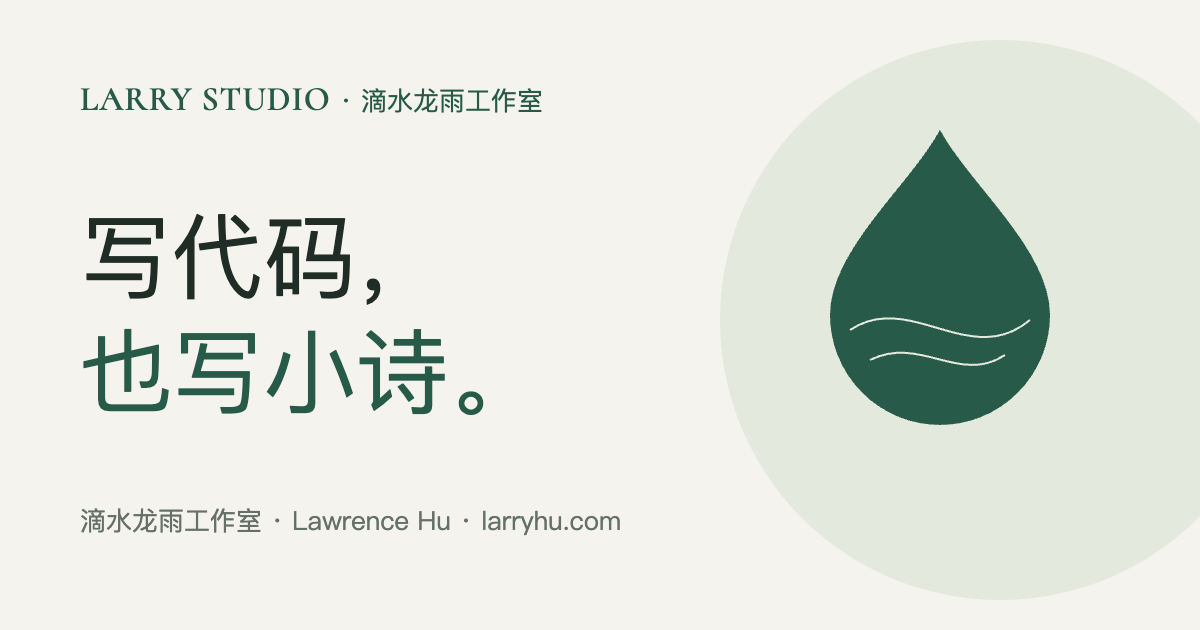
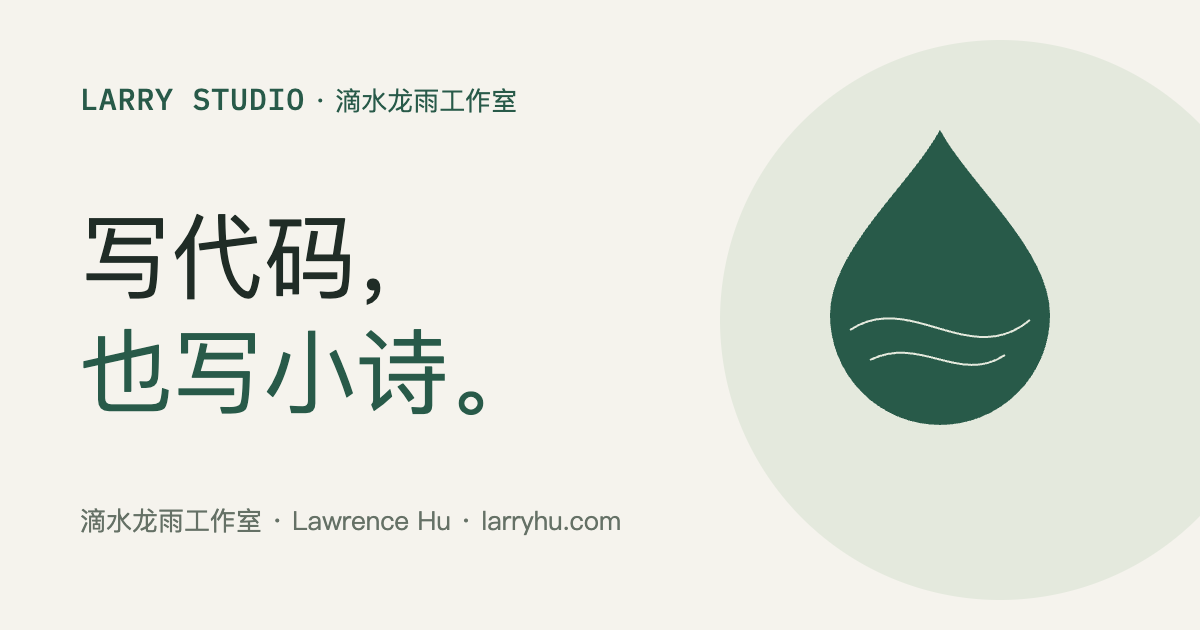
style: use IBM Plex Mono for the studio wordmark

Changed region(s): [[0.0617, 0.1206, 0.4625, 0.181]]

diff --git a/app/globals.css b/app/globals.css
@@ -2,7 +2,7 @@
 
 @font-face { font-family: "Studio Sans"; src: url('/fonts/dm-sans.woff2') format('woff2'); font-weight: 400 700; font-style: normal; font-display: swap; }
 @font-face { font-family: "Studio Serif"; src: url('/fonts/noto-serif-sc.woff2') format('woff2'); font-weight: 400 700; font-style: normal; font-display: swap; }
-@font-face { font-family: "Studio Wordmark"; src: url('/fonts/cormorant-sc-600.woff2') format('woff2'); font-weight: 600; font-style: normal; font-display: swap; }
+@font-face { font-family: "Studio Wordmark"; src: url('/fonts/ibm-plex-mono-500.woff2') format('woff2'); font-weight: 500; font-style: normal; font-display: swap; }
 
 :root {
   --paper: #f5f3ed;
@@ -14,7 +14,7 @@
   --rust: #a34d32;
   --serif: "Studio Serif", "Songti SC", serif;
   --sans: "Studio Sans", "PingFang SC", "Microsoft YaHei", sans-serif;
-  --wordmark: "Studio Wordmark", "Palatino Linotype", Palatino, serif;
+  --wordmark: "Studio Wordmark", "SFMono-Regular", Consolas, monospace;
 }
 
 * { box-sizing: border-box; }
@@ -50,7 +50,7 @@ svg { flex-shrink: 0; }
 .brand { display: flex; align-items: center; gap: 9px; font-size: 22px; font-weight: 650; letter-spacing: -.8px; }
 .brand > svg { width: 31px; height: 34px; color: var(--green); }
 .brand-copy { display: flex; flex-direction: column; gap: 5px; }
-.brand-name { font-family: var(--wordmark); font-size: 30px; font-weight: 600; line-height: 1; white-space: nowrap; font-variant-caps: normal; font-synthesis: none; letter-spacing: .025em; }
+.brand-name { font-family: var(--wordmark); font-size: 25px; font-weight: 500; line-height: 1; white-space: nowrap; font-variant-caps: normal; font-synthesis: none; letter-spacing: .025em; }
 .brand-chinese { font-size: 9px; font-weight: 400; line-height: 1.4; letter-spacing: .15em; color: var(--muted); }
 .brand-light { font-weight: inherit; }
 .brand-period { color: var(--rust); }
@@ -184,7 +184,7 @@ svg { flex-shrink: 0; }
 .site-footer { border-top: 1px solid var(--line); padding-top: 39px; }
 .footer-top { display: flex; align-items: center; justify-content: space-between; gap: 30px; padding-bottom: 40px; }
 .footer-signature { font-family: var(--serif); font-size: 23px; font-weight: 600; letter-spacing: -.04em; }
-.footer-signature span { display: block; font-family: var(--wordmark); font-size: 15px; font-weight: 600; font-variant-caps: normal; font-synthesis: none; line-height: 1.2; letter-spacing: .04em; margin-top: 7px; }
+.footer-signature span { display: block; font-family: var(--wordmark); font-size: 15px; font-weight: 500; font-variant-caps: normal; font-synthesis: none; line-height: 1.2; letter-spacing: .04em; margin-top: 7px; }
 .footer-top > p { color: var(--muted); font-size: 11px; line-height: 2; }
 .footer-top > p span { font-size: 10px; }
 .back-top { display: flex; align-items: center; gap: 13px; font-size: 8px; letter-spacing: .1em; }
@@ -315,7 +315,7 @@ svg { flex-shrink: 0; }
   .header-inner { height: 70px; }
   .brand { font-size: 20px; }
   .brand > svg { width: 27px; height: 30px; }
-  .brand-name { font-size: 26px; }
+  .brand-name { font-size: 22px; }
   .desktop-nav { display: none; }
   .header-actions { margin-left: auto; gap: 16px; }
   .language-button { font-size: 11px; min-height: 40px; }
@@ -397,7 +397,7 @@ svg { flex-shrink: 0; }
   .poem-full p + p { margin-top: 30px; }
 }
 @media (max-width: 360px) {
-  .brand-name { font-size: 21px; letter-spacing: .01em; }
+  .brand-name { font-size: 19px; letter-spacing: .01em; }
   .header-inner { gap: 12px; }
   .header-actions { gap: 10px; }
 }

diff --git a/app/layout.tsx b/app/layout.tsx
@@ -23,7 +23,7 @@ export default function RootLayout({ children }: Readonly<{ children: React.Reac
   return (
     <html lang="zh-CN" suppressHydrationWarning>
       <head>
-        <link rel="preload" href="/fonts/cormorant-sc-600.woff2" as="font" type="font/woff2" crossOrigin="anonymous" />
+        <link rel="preload" href="/fonts/ibm-plex-mono-500.woff2" as="font" type="font/woff2" crossOrigin="anonymous" />
         <link rel="preload" href="/fonts/dm-sans.woff2" as="font" type="font/woff2" crossOrigin="anonymous" />
         <link rel="preload" href="/fonts/noto-serif-sc.woff2" as="font" type="font/woff2" crossOrigin="anonymous" />
         <meta name="theme-color" content="#f5f3ed" />

diff --git a/README.md b/README.md
@@ -45,7 +45,7 @@ npm run deploy
 - 首页与布局：`components/home.tsx`、`app/globals.css`。
 - App 名称、介绍、主页和下载链接：`content/apps.ts`。
 - 诗歌全文：`content/poems.json`。新增诗歌会自动生成阅读页和网站地图。
-- 字标使用 Cormorant SC 的全大写字形，正文使用 DM Sans 与 Noto Serif SC 子集，均由本站托管；许可位于 `public/fonts/`。如新增的汉字不在子集中，会使用系统宋体后备字体。
+- 字标使用 IBM Plex Mono 的全大写字形，正文使用 DM Sans 与 Noto Serif SC 子集，均由本站托管；许可位于 `public/fonts/`。如新增的汉字不在子集中，会使用系统宋体后备字体。
 
 ## App 主页
 
